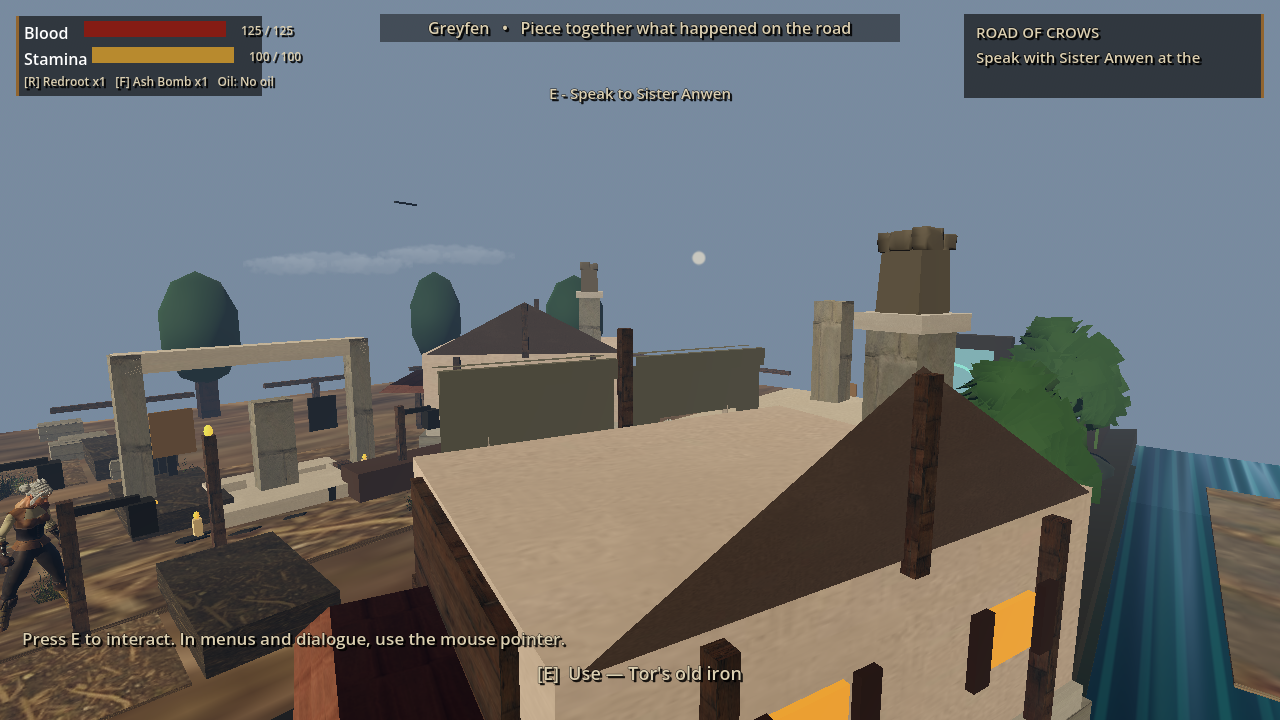
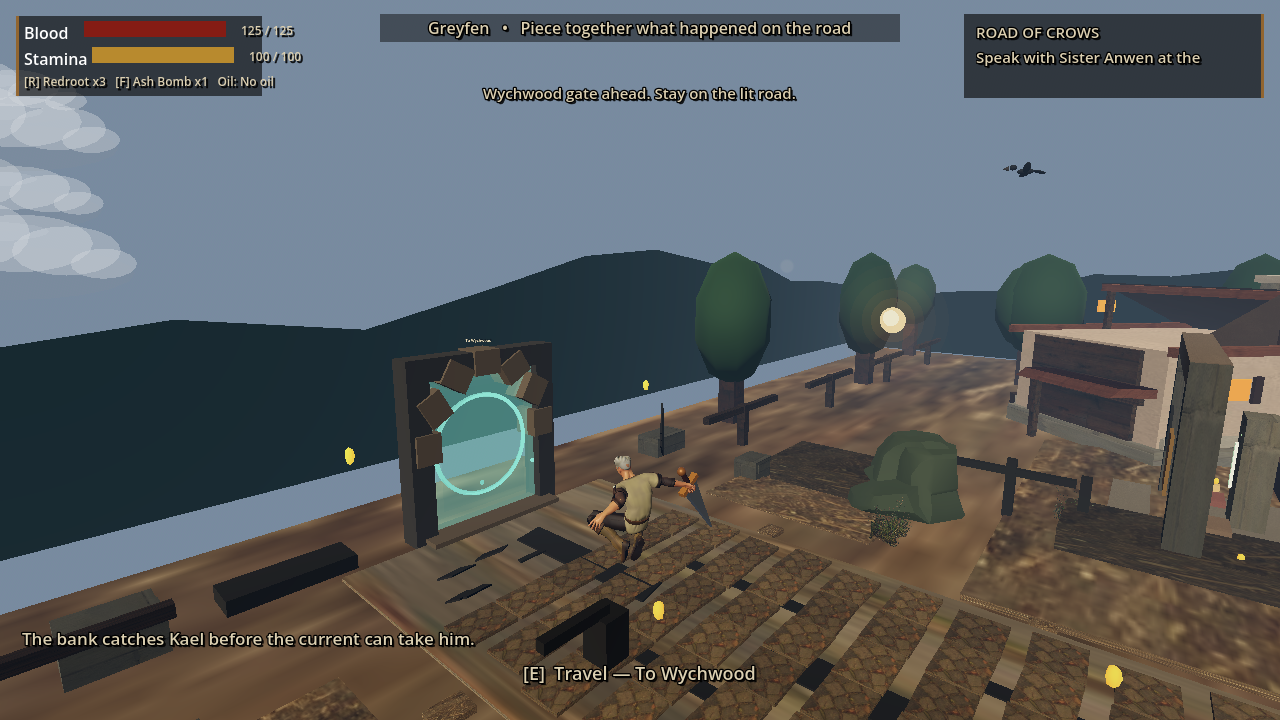
WORLD-012: restore Greyfen visual depth and river presentation

diff --git a/outputs/AshenOathTheRoadBetweenCrowns/WORLD_012_RESULT.md b/outputs/AshenOathTheRoadBetweenCrowns/WORLD_012_RESULT.md
@@ -1,5 +1,27 @@
 # WORLD-012 Result — Authored Greyfen
 
+## 2026-08-21 Visual Recovery Update
+
+This checkpoint closes the previously missing rendered review for the Greyfen
+slice. The Compatibility capture path was fixed so the 2D celestial pass is a
+transparent overlay instead of an opaque full-screen gradient. Balanced houses
+now use connected gabled roof meshes, the river water/current pass is darker and
+less neon, and a low-cost continuous ridge layer closes the exposed horizon
+without adding collision or route blockers. The bridge capture now approaches
+from the south road and proves both banks and the crossing in one frame.
+
+Fresh captures were regenerated and inspected at 1280x720:
+
+- `WORLD_012_01_Greyfen_Spawn_Street.png`
+- `WORLD_012_02_Greyfen_Shrine_Quarter.png`
+- `WORLD_012_03_Greyfen_Forge_Yard.png`
+- `WORLD_012_04_Greyfen_River_Bridge.png`
+
+The frames are current, nonblank, route-readable, and visibly improved over
+the prior flat-sky capture. They remain stylized and are not being represented
+as final photoreal visual approval; house clutter and later-zone presentation
+remain open work in the Soul Rebuild plan.
+
 ## Status
 
 Implemented on the cumulative `codex/soul-rebuild` branch. Greyfen keeps its existing quest, river, bridge, gate, NPC, and collision ownership while the Balanced route receives a bounded authored-dressing pass and scale-safe facade treatment.

diff --git a/outputs/AshenOathTheRoadBetweenCrowns/PROJECT_STATE.md b/outputs/AshenOathTheRoadBetweenCrowns/PROJECT_STATE.md
@@ -2,6 +2,20 @@
 
 ## Current Working Checkpoint - 2026-08-21
 
+### WORLD-012 Greyfen visual recovery update
+
+The Greyfen presentation slice now has a transparent Compatibility sky overlay,
+connected Balanced gabled roofs, darker animated river water/current, and a
+continuous non-colliding horizon ridge layer that removes the exposed empty
+boundary. The bridge capture was moved onto the south approach so it proves the
+bridge and both banks instead of recording an invalid boundary-facing frame.
+The strengthened WORLD-012 verifier requires the horizon, gabled roofs, and
+WATER-002 material contract. Fresh 1280x720 spawn, shrine, forge, and bridge
+frames were captured and inspected. The slice is a real visual improvement but
+remains stylized; final asset-family replacement, later-zone polish, and full
+release acceptance are still open. Production main, tracked web, and Vercel
+remain unchanged.
+
 ### OATH-002 Oathfire state-machine checkpoint
 
 Oathfire now has one explicit transition contract: sheathing, charging,

diff --git a/outputs/AshenOathTheRoadBetweenCrowns/SOUL_REBUILD_CONTEXT.md b/outputs/AshenOathTheRoadBetweenCrowns/SOUL_REBUILD_CONTEXT.md
@@ -2,6 +2,18 @@
 
 ## Current Working Checkpoint - 2026-08-21
 
+### WORLD-012 Greyfen visual recovery update
+
+The latest Greyfen slice fixes an actual screenshot failure: the authored sky
+is now a transparent celestial overlay, leaving the 3D world visible under the
+WorldEnvironment gradient. Balanced houses use connected gabled roof meshes,
+the river material/current is toned into a darker flowing channel, and a
+continuous non-colliding ridge closes the empty village horizon. Fresh
+1280x720 Greyfen spawn, shrine, forge, and south-approach bridge captures are
+current and inspected. This is a bounded presentation improvement, not final
+visual approval; the opening still needs the cohesive character/monster and
+full authored environment gates before production release.
+
 ### OATH-002 combat-state checkpoint
 
 The Oathfire path now uses one state machine for sheathing, hand-based charge,
